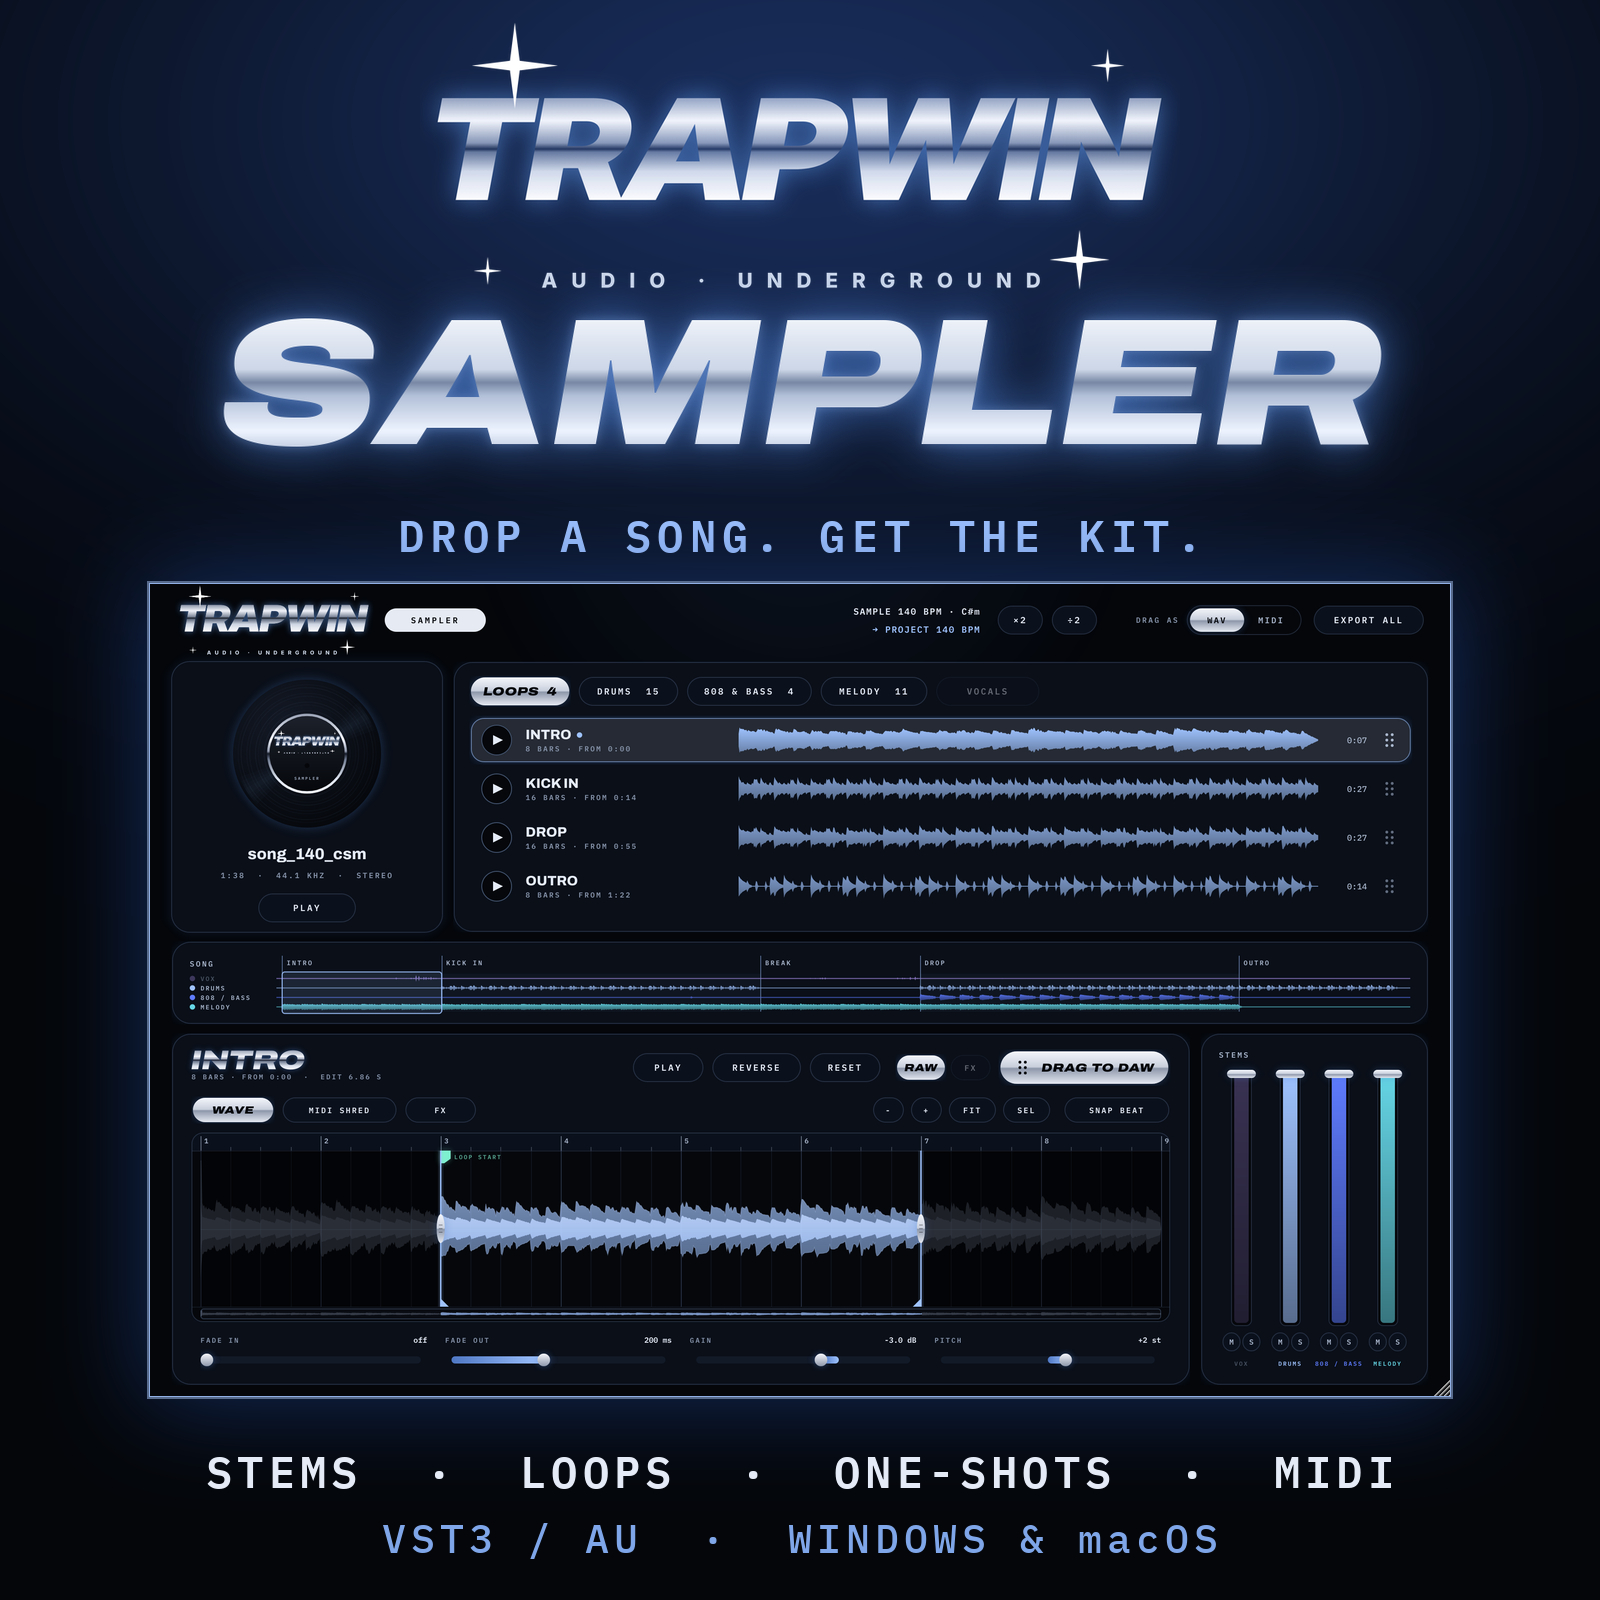
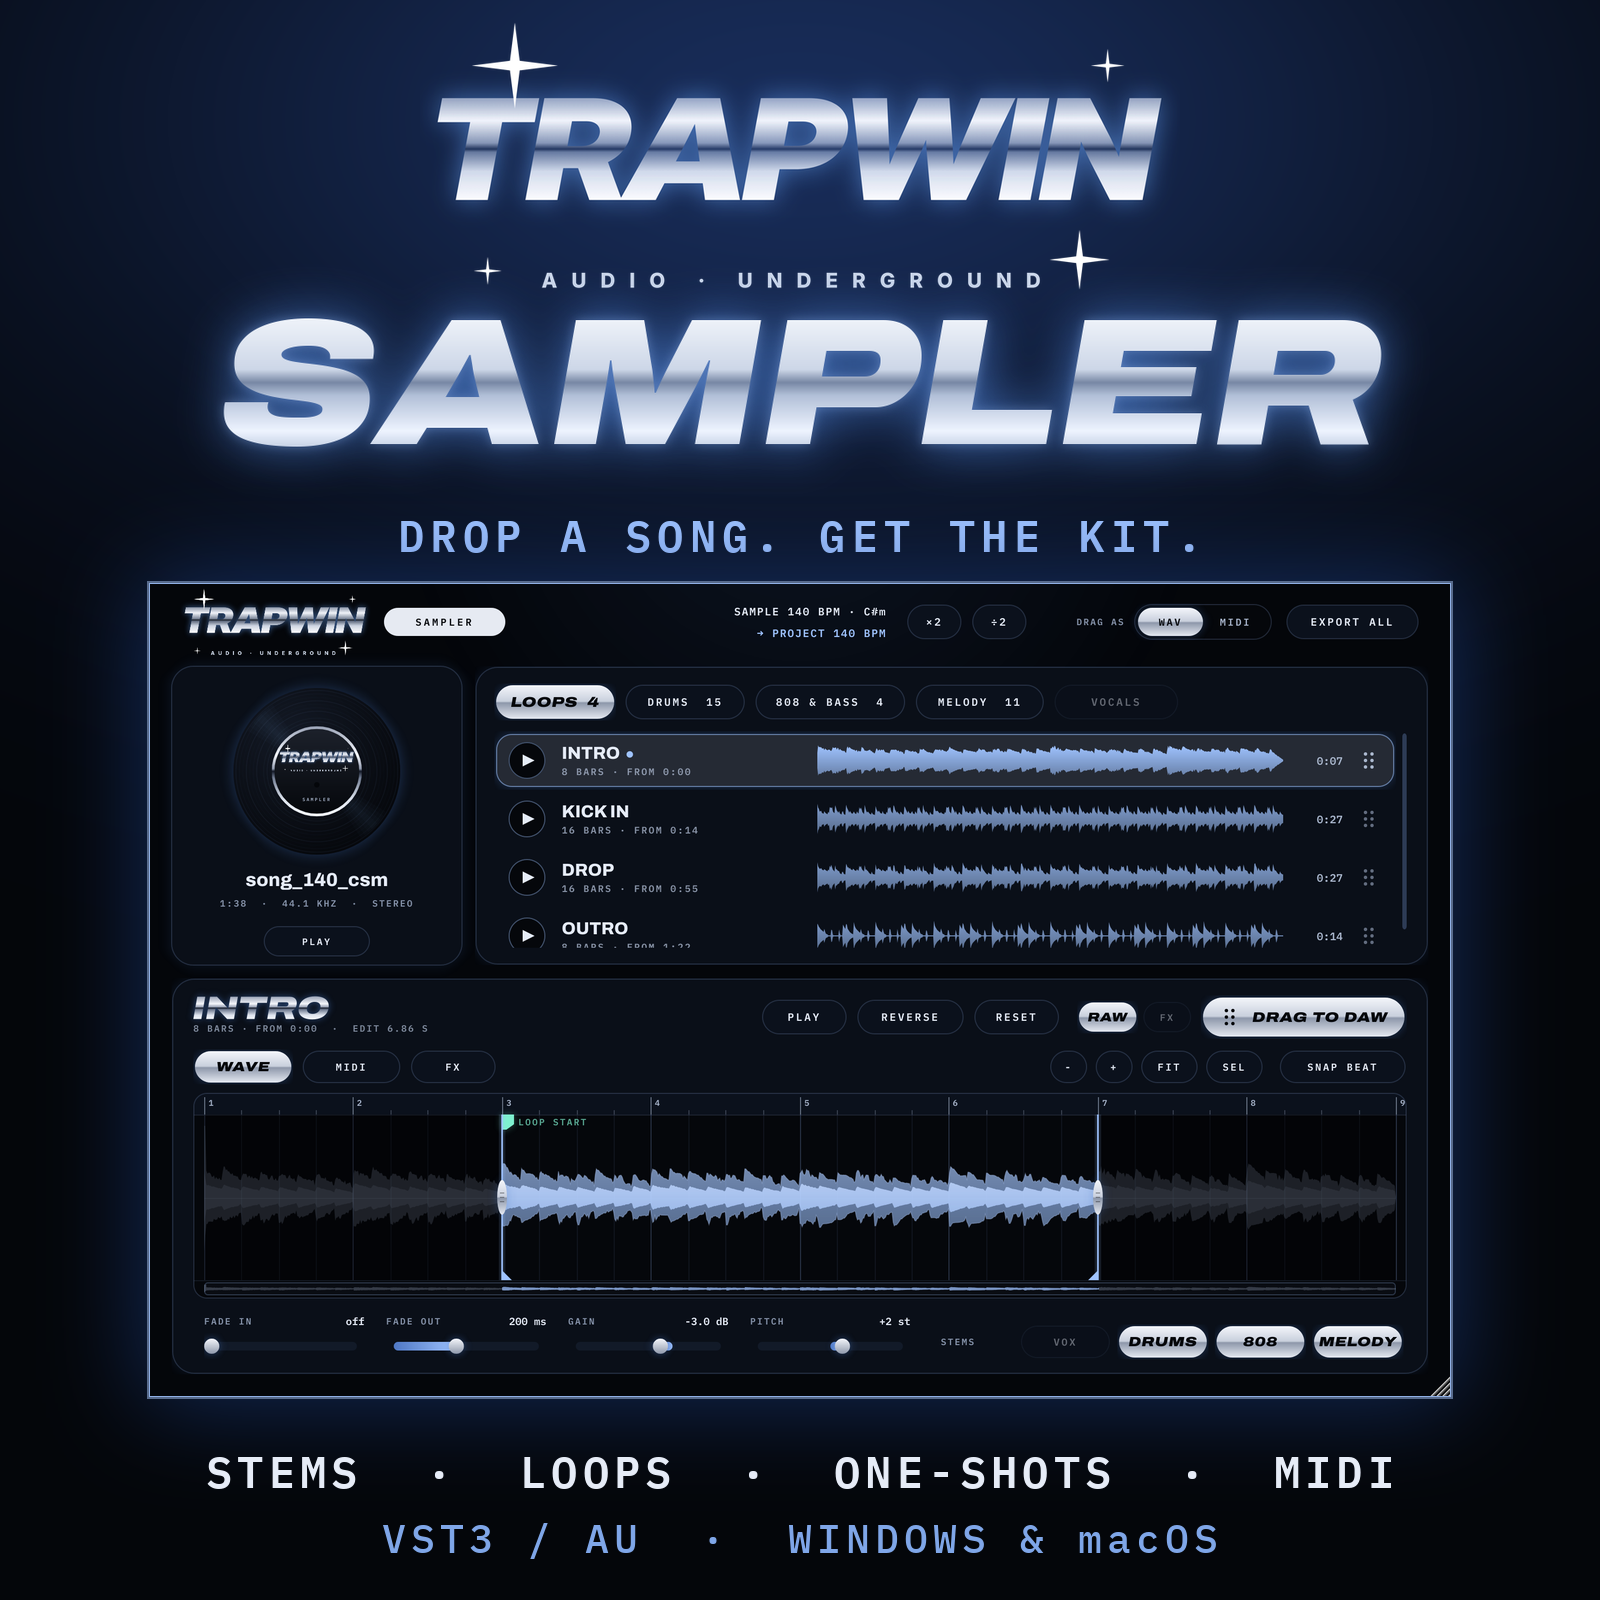
Simple FX (halftime / speed, repeat, filter, delay, reverb, KILL) merged; cover and README
Claude-Session: https://claude.ai/code/session_01KZZDfCMsQB8YcFMSrkGzTv

Changed region(s): [[0.0938, 0.375, 0.9062, 0.875], [0.6562, 0.375, 0.875, 0.4062]]

diff --git a/README.md b/README.md
@@ -7,11 +7,11 @@ VST3 / AU nástroj (Windows a Mac) pro trapové producenty. Přetáhneš na viny
 - **Loopy jednotlivých stop.** Ke každému songu i *Drop Drums*, *Intro Melody*, *Hook Vox*, *Drop 808* … z částí, kde daná stopa nejvíc hraje.
 - **One-shoty, nic náhodného.** Každý zvuk je vyříznutý ze své stopy, takže pod ním nic nehraje: *Kick, Snare, Hat, Open Hat, Perc* z bicích, *808 F#1* s tónem z basy, *Note* a *Chord* z melodie (Basic Pitch), *Vox* chopy z vokálu. Vybírá nejčistší kusy a končí před dalším úderem.
 - **Prohlížeč po záložkách:** LOOPS · DRUMS · 808 & BASS · MELODY · VOCALS.
-- **Přehled songu.** Celý song s pruhy stop a pojmenovanými částmi; ukáže, odkud vybraný vzorek je. Klik = přehraje song od toho místa.
 - **Profesionální editor vlny.** Zoom kolečkem / gestem / tlačítky až na jednotlivé vzorky, posouvání, mřížka taktů, značky začátku a konce kamkoliv (přichytávání: vypnuto, průchod nulou, 1/16, 1/8, doba, takt; Alt = bez přichytávání, Shift = jemně) a značka LOOP START, odkud smyčka začíná hrát.
 - **MIDI skartovačka.** Záložka MIDI SHRED převede vzorek na noty (Basic Pitch, i akordy) a ukáže je v piano rollu: posun, délka, mazání, kreslení, kvantizace, oktávy, velocity, undo – a DRAG MIDI rovnou do piano rollu DAW.
-- **FX rack (z TrapWin Effectoru).** Filter, drive, crush, gate/stutter sekvencer, tape stop, delay, reverb, width a tlačítko KILL (náhodný hudební rack). Do DAW přetáhneš zvuk RAW (bez efektů) nebo s FX.
-- **Editor + mixér stop.** Ořez (po dobách), fade in/out, hlasitost, ladění ±12, reverse, reset – a u loopů mixér stop (VOX / DRUMS / 808 / MELODY, mute / solo): z full loopu uděláš třeba instrumentál nebo jen melodii.
+- **Efekty – jednoduše:** HALFTIME / SPEED (½, ¼, 2×), REPEAT stutter (1/2 … 1/32), filtr (jeden knoflík LP ↔ HP), delay, reverb a KILL (náhodná kombinace). Do DAW přetáhneš zvuk RAW (bez efektů) nebo s FX.
+- **Stopy u loopu.** Přepínače VOX / DRUMS / 808 / MELODY: z full loopu uděláš instrumentál, loop bez beatu nebo jen melodii.
+- **Velikost okna.** Otevře se zhruba na 70 % obrazovky (notebook i monitor), dá se zvětšit / zmenšit, vše zůstává čitelné.
 - **Přetažení do DAW kdykoli.** Řádek nebo *DRAG TO DAW* do FL Studia, Abletonu, Logicu…, jako WAV nebo MIDI (Basic Pitch, i akordy).
 - **EXPORT ALL** uloží všechny vzorky do složky, roztříděné jako záložky.
 - **Piano Roll.** Vybraný vzorek hraje z MIDI: one-shoty chromaticky (nota 60 = původní výška), loopy spouští nota.
